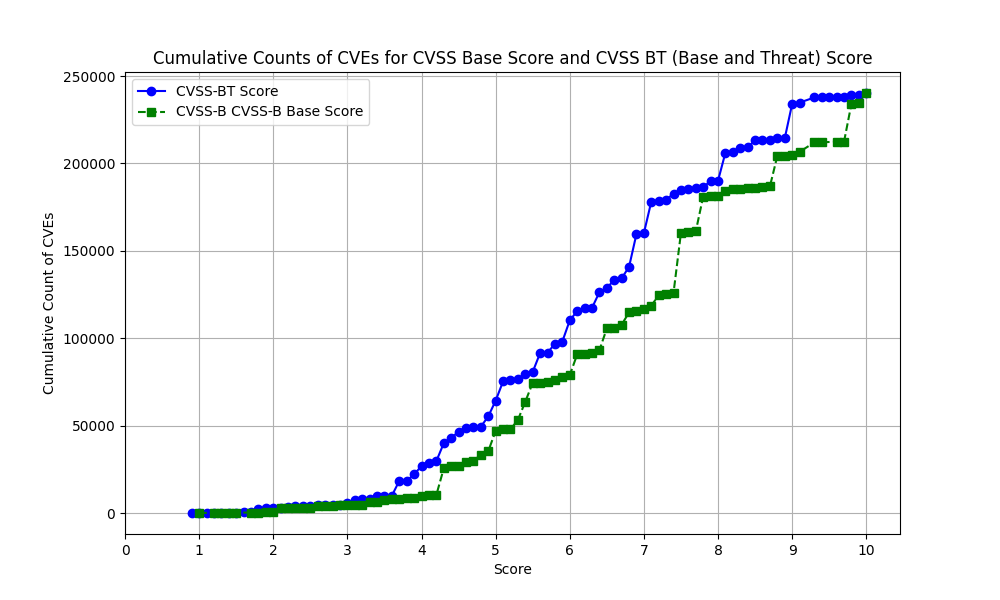
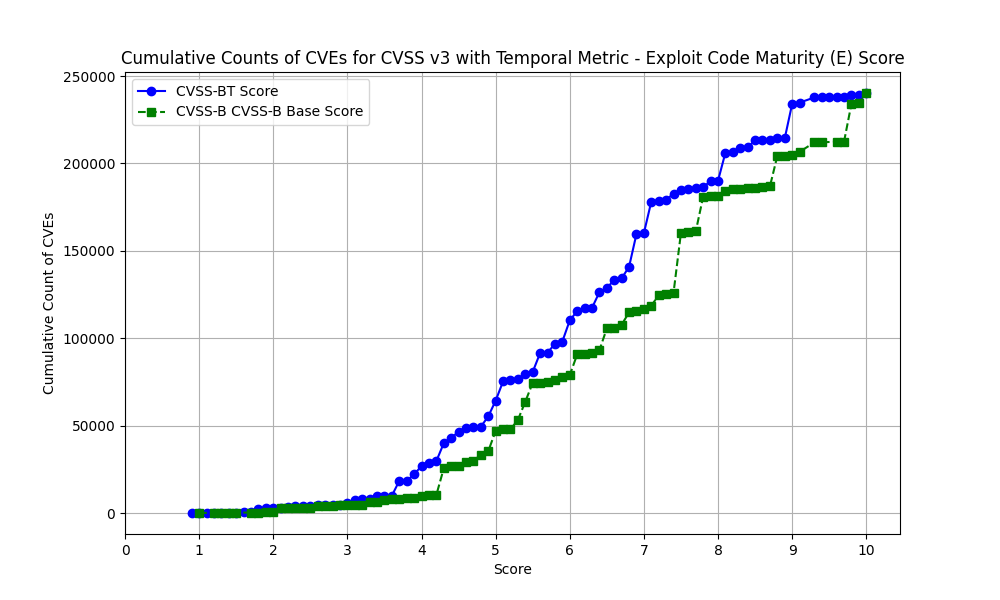
cvss v3 temporal

Changed region(s): [[0.124, 0.06, 0.899, 0.12]]

diff --git a/docs/risk/Rbp_schemes.md b/docs/risk/Rbp_schemes.md
@@ -6,17 +6,17 @@
 
     Code and analysis is provided for 3 Risk Based Prioritization schemes to allow comparison and refinement: 
 
-    5. CVSS Temporal & Threat Metrics (adding Exploitation info per the CVSS standard)
+    1. CVSS v3 Temporal Metric - Exploit Code Maturity (E) (adding Exploitation info per the CVSS standard)
           1. The data from "[Enriching the NVD CVSS scores to include Temporal & Threat Metrics](https://github.com/t0sche/cvss-bt)" is used here.
-    6. CVSS Base Score Ratings with Exploitation Focus (adding Exploitation info but not per the CVSS standard)
+    2. CVSS Base Score Ratings with Exploitation Focus (adding Exploitation info but not per the CVSS standard)
           1. The data from "[Enriching the NVD CVSS scores to include Temporal & Threat Metrics](https://github.com/t0sche/cvss-bt)" is used here.
-    7. SSVC Decision Trees (using CVSS Base Parameters as input, not CVSS scores or ratings)
+    3. SSVC Decision Trees (using CVSS Base Parameters as input, not CVSS scores or ratings)
 
     For each scheme:
 
-    8. The population of CVEs used is All published CVEs
-    9.  **Public data is used, but it can be easily augmented with commercial CTI.**
-    10. **These schemes can be applied to your CVEs**
+    4. The population of CVEs used is All published CVEs
+    5.  **Public data is used, but it can be easily augmented with commercial CTI.**
+    6.  **These schemes can be applied to your CVEs**
 
     !!! warning 
 
@@ -25,22 +25,22 @@
         
         This section "leads with an opinion", and associated rationale.
 
-    :material-play-box-edit-outline: [Colab NoteBook CVSS Base vs CVSS Base & Threat](https://colab.research.google.com/drive/1LOps2ViFbAp5eyC5UG_cr-5bZ8i_4U8B#scrollTo=HHyjMx-Ku7eQ) 
+    :material-play-box-edit-outline: [Colab NoteBook CVSS Base vs CVSS Base & Temporal Metric - Exploit Code Maturity/Exploitability (E)](https://colab.research.google.com/drive/1LOps2ViFbAp5eyC5UG_cr-5bZ8i_4U8B#scrollTo=HHyjMx-Ku7eQ) 
 
-    :technologist: [CVSS Base vs CVSS Base & Threat Source Code](https://github.com/RiskBasedPrioritization/RiskBasedPrioritizationAnalysis/blob/main/analysis/cvss-bt.ipynb)
+    :technologist: [CVSS Base vs CVSS v3 Base & Temporal Metric - Exploit Code Maturity/Exploitability (E) Source Code](https://github.com/RiskBasedPrioritization/RiskBasedPrioritizationAnalysis/blob/main/analysis/cvss-bt.ipynb)
 
     :technologist: [SSVC Source Code](https://github.com/RiskBasedPrioritization/RiskBasedPrioritizationAnalysis/blob/main/cisa_ssvc_dt/DT_from_scratch.ipynb) 
   
 
 
 
-### CVSS Temporal & Threat Metrics
+### CVSS and Temporal Metric - Exploit Code Maturity (E)
 
-Exploitation data is added per the CVSS standard as described in [CVSS](../cvss/CVSS.md#cvss-exploit-maturity).
+Exploitation data is added per the CVSS v3 standard as described in [CVSS](../cvss/CVSS.md#cvss-exploit-maturity).
 
 <figure markdown>
 ![](../assets/images/cvss_bt_parcat.png)
-<figcaption>The effect of CVSS Base & Threat is to move some CVEs down a Rating e.g. some Critical CVEs move to High</figcaption>
+<figcaption>The effect of CVSS v3 Temporal Metric - Exploit Code Maturity (E) is to move some CVEs down a Rating e.g. some Critical CVEs move to High</figcaption>
 </figure>
 
 
@@ -94,7 +94,7 @@ This gives more granularity than combining CVSS Ratings and Exploitation factors
 
 
 !!! observations
-    1. The standard CVSS Temporal & Threat Metrics as described in [CVSS](../cvss/CVSS.md#cvss-exploit-maturity) does not significantly (de)prioritize CVEs.
+    1. The standard CVSS v3 Temporal Metric - Exploit Code Maturity (E) as described in [CVSS](../cvss/CVSS.md#cvss-exploit-maturity) does not significantly (de)prioritize CVEs.
           1. While it uses Exploitation Evidence, it does not **focus on** Exploitation Evidence like the other 2 schemes presented
           2. is based on a standard, but exactly how to use the different types of Exploitation Evidence is not standard or defined
     2. The "CVSS Base Score Ratings with Exploitation Focus" does significantly (de)prioritize CVEs
@@ -109,7 +109,7 @@ This gives more granularity than combining CVSS Ratings and Exploitation factors
     2. Either [CVSS Base Score Ratings with Exploitation Focus](#cvss-base-score-ratings-with-exploitation-focus) or  [SSVC Decision Trees](#ssvc-decision-trees), that [Focus on Exploitation](../risk/Understanding_Risk.md#where-cvss-epss-cisa-kev-fit), are good starting points or references for a Risk Based Prioritization scheme.
     3. Apply a Risk Based Prioritization scheme based on your environment, and refine it based on your data.
 
-    |  CVSS Temporal & Threat Metrics |CVSS Base Score Ratings with Exploitation Focus | SSVC Decision Trees           | 
+    |  CVSS v3 Temporal Metric - Exploit Code Maturity (E) |CVSS Base Score Ratings with Exploitation Focus | SSVC Decision Trees           | 
     |---|---------------------|------------------------|
     | ![](../assets/images/cvss_bt_parcat.png)  | ![](../assets/images/cvss_exploitation_parcat.png)            | ![](../assets/images/dt_sankey.png)                     |  
     | The effect of CVSS Base & Threat is to move some CVEs down a Rating e.g. some Critical CVEs move to High | Better prioritization - less red |Better prioritization - less red |
